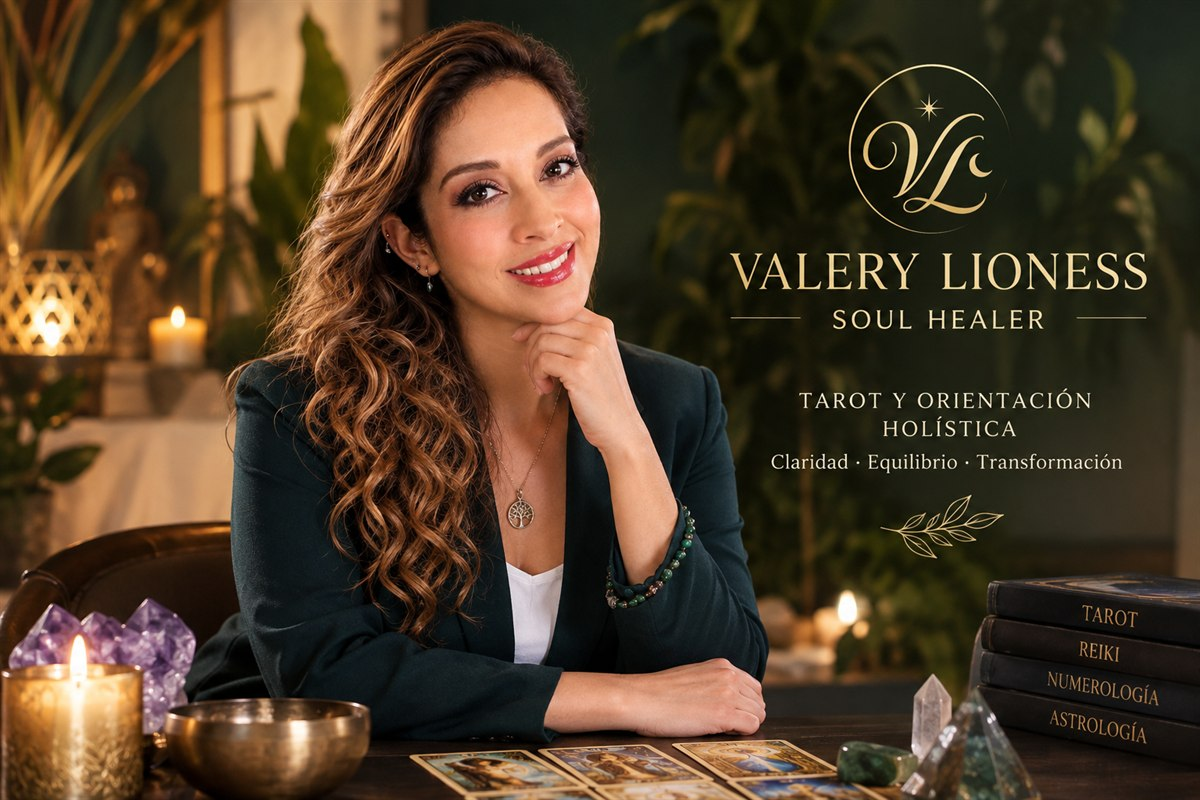
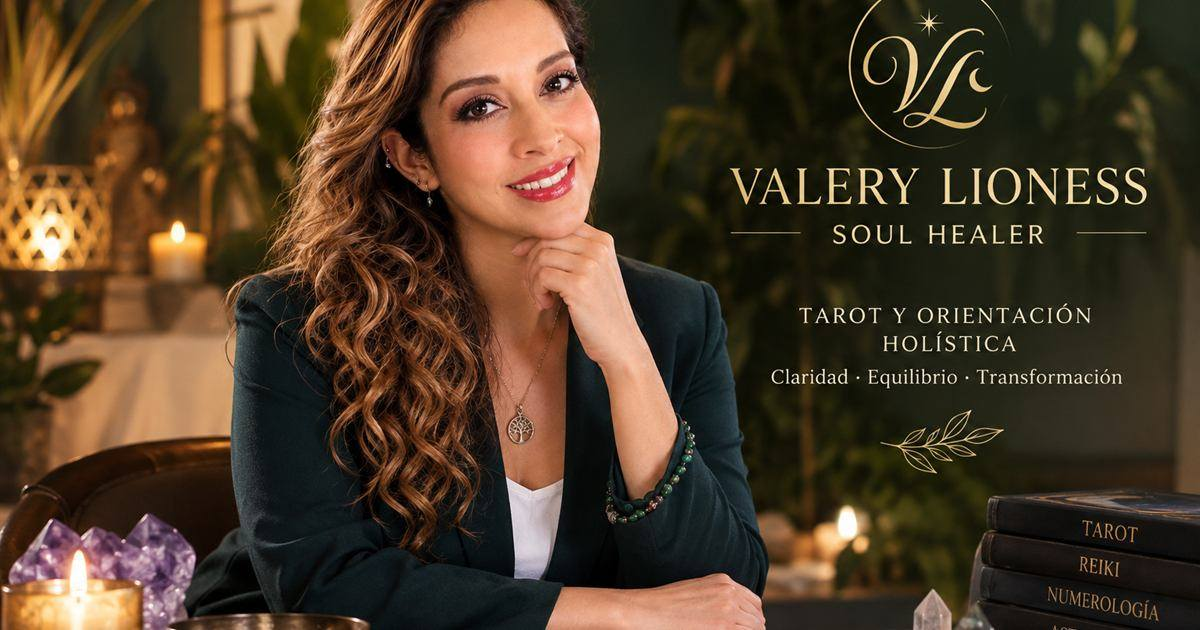
fix: optimizar og:image a 1200x630 sub-100KB y agregar prefijo Open Graph en html

diff --git a/index.html b/index.html
@@ -1,5 +1,5 @@
 <!DOCTYPE html>
-<html lang="es">
+<html lang="es" prefix="og: http://ogp.me/ns#">
 
 <head>
   <meta charset="UTF-8">
@@ -21,7 +21,7 @@
   <meta property="og:image:secure_url" content="https://arcano3ai.github.io/Val-Lioness/assets/images/og-valery-lioness.jpg">
   <meta property="og:image:type" content="image/jpeg">
   <meta property="og:image:width" content="1200">
-  <meta property="og:image:height" content="800">
+  <meta property="og:image:height" content="630">
   <meta property="og:image:alt" content="Valery Lioness · Soul Healer — Altar y Tarot Terapéutico">
   <meta property="og:locale" content="es_MX">
 
